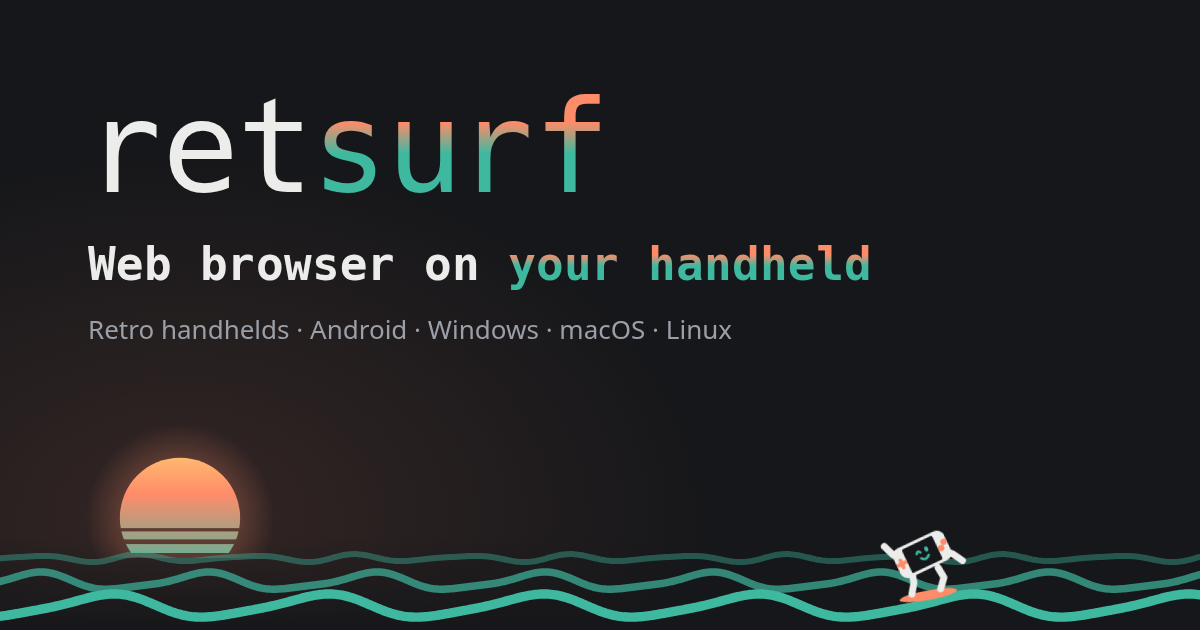
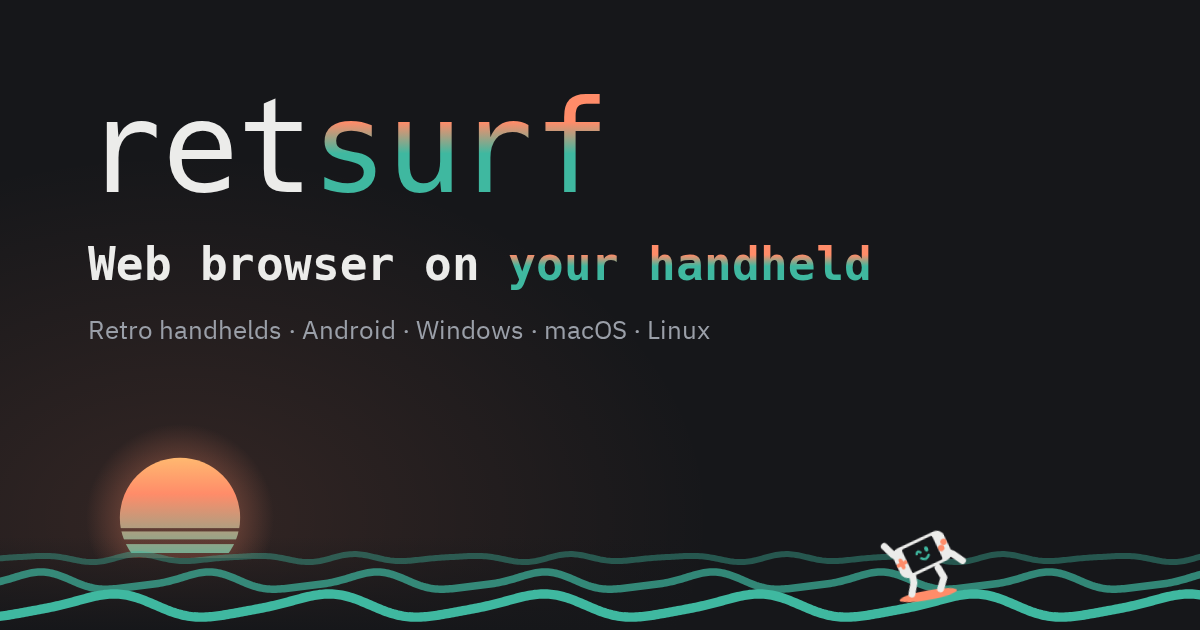
feat(site): IBM Plex Sans body text

Changed region(s): [[0.0617, 0.5127, 0.6167, 0.5429]]

diff --git a/style.css b/style.css
@@ -1,4 +1,16 @@
 @font-face {
+  font-family: "IBM Plex Sans";
+  src: url("fonts/IBMPlexSans-Regular-Latin1.woff2") format("woff2");
+  font-weight: 400;
+  font-display: swap;
+}
+@font-face {
+  font-family: "IBM Plex Sans";
+  src: url("fonts/IBMPlexSans-SemiBold-Latin1.woff2") format("woff2");
+  font-weight: 600;
+  font-display: swap;
+}
+@font-face {
   font-family: "Hack";
   src: url("fonts/hack-regular.woff2") format("woff2");
   font-weight: 400;
@@ -41,7 +53,7 @@ body {
   overflow-x: hidden;
   background: var(--bg);
   color: var(--ink);
-  font: 16px/1.6 system-ui, -apple-system, "Segoe UI", Roboto, "Noto Sans", sans-serif;
+  font: 16px/1.6 "IBM Plex Sans", system-ui, -apple-system, "Segoe UI", Roboto, "Noto Sans", sans-serif;
   -webkit-font-smoothing: antialiased;
 }
 

diff --git a/index.html b/index.html
@@ -17,6 +17,7 @@
   <meta name="twitter:card" content="summary_large_image">
   <meta name="theme-color" content="#16171a">
   <link rel="icon" href="retsurf.svg" type="image/svg+xml">
+  <link rel="preload" href="fonts/IBMPlexSans-Regular-Latin1.woff2" as="font" type="font/woff2" crossorigin>
   <link rel="preload" href="fonts/hack-bold.woff2" as="font" type="font/woff2" crossorigin>
   <link rel="stylesheet" href="brand.css">
   <link rel="stylesheet" href="style.css">
